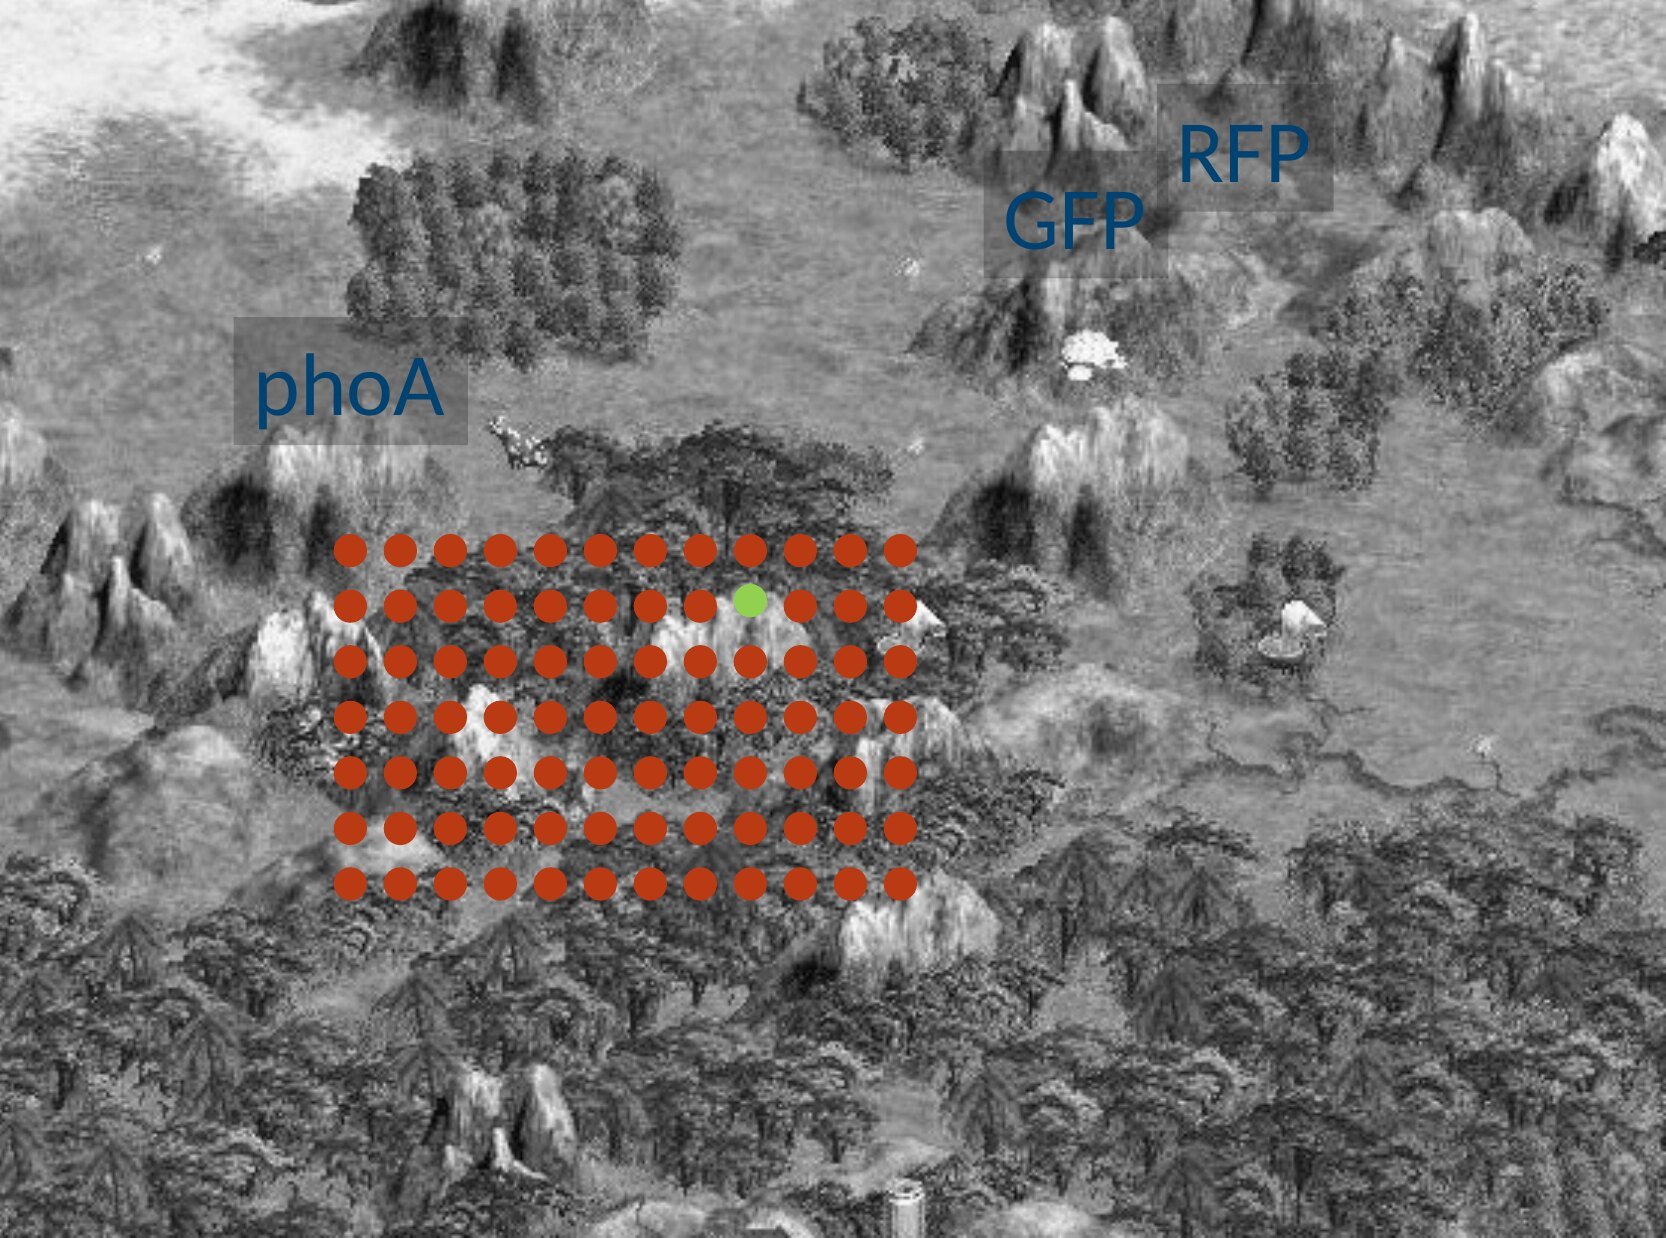
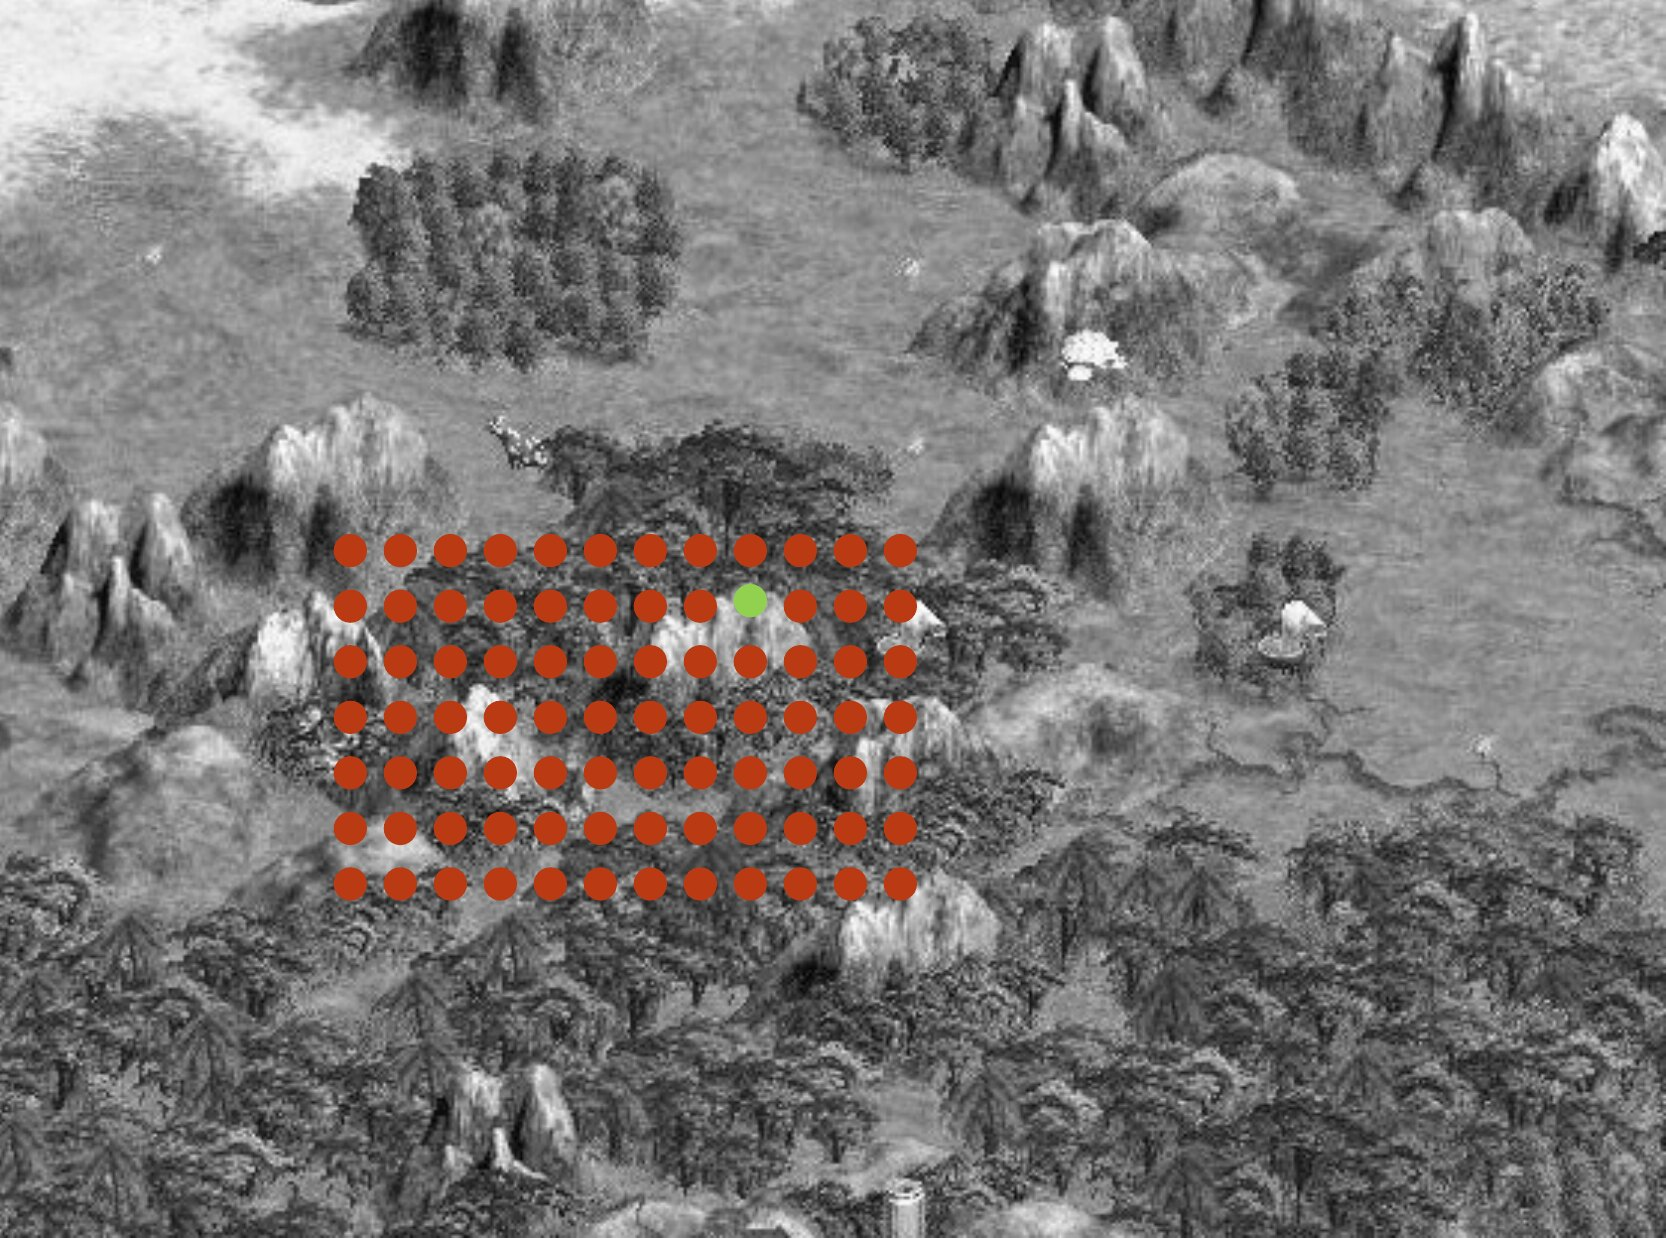
Combinatorial Libraries: sweep the figures, and letter source 3 in HTML
"look for more such issues".  Two sweeps, because the ink pass fails in
two opposite directions and neither one errors.

Too little ink: all 45 figures flattened onto white, measured for the
mid-grey band that clean line art should hardly have, then looked at as
four sheets.  Nothing else was splotchy.

Too much ink, or a shape eaten: rendered a CONTROL tree -- white ground
only, no detint, no inkify -- and diffed it against the build slide by
slide.  No slide lost a shape.  The five where the build has less ink
than the control are the halo going away, and an A/B confirms the build
is strictly more legible.  That diff is the check that would have caught
the source 37 arrow, and PLAN.txt now says to re-run it after any change
to build_white.py.

The sweep did turn up three figures with white type inside a filled
block -- sources 18, 21 and 30 -- which is the one case neither inking
nor a grey panel fixes without redrawing someone else's figure.  Left
alone and written down for JCA.

Source 3's RFP, GFP and phoA are a different matter: they are native
shapes, not part of the raster, and baked into the crop they were a pale
tint of blue over a grey landscape.  Dropped from the render and set as
HTML over the photograph in white, at the shapes' own positions -- the
same treatment every other slide label in this deck already had, and
what the Directed Evolution deck does with this same image.

Changed region(s): [[0.593, 0.0614, 0.8115, 0.2456], [0.1248, 0.2456, 0.2809, 0.3683]]

diff --git a/docs/lectures/140L/11-combinatorial-libraries/00-front-matter.html b/docs/lectures/140L/11-combinatorial-libraries/00-front-matter.html
@@ -9,6 +9,20 @@
 <link rel="stylesheet" href="../../deck.css">
 <style>
 .slide figure.fig img{width:100%;height:100%;min-height:0;object-fit:contain}
+/* source 3: the three peak names are set HERE rather than baked into the
+   crop.  On the slide they are a pale tint of blue over a grey landscape;
+   white is what the Directed Evolution deck uses over this same photograph,
+   and it is the only thing that reads on it.  Percentages are the shapes'
+   own positions in the picture box, from the slide XML. */
+.slide .onphoto{flex:1 1 auto;min-height:0;display:flex;
+  justify-content:center;margin-top:18px}
+/* the labels are placed against the IMAGE, so the positioned box has to be
+   the image's own box and not the figure's -- which is full slide width. */
+.slide .onphoto .ph{position:relative;display:inline-block;height:100%}
+.slide .onphoto .ph img{display:block;height:100%;width:auto;max-width:100%}
+.slide .onphoto .peak{position:absolute;color:#fff;font-size:34px;
+  font-family:var(--sans);text-shadow:0 1px 4px rgba(0,0,0,.85);
+  pointer-events:none}
 /* source 4: two named engineering methods, each with its own bullets */
 .slide .meth{flex:1 1 auto;min-height:0;display:flex;flex-direction:column;
   justify-content:center;gap:38px}
@@ -41,8 +55,13 @@
 <!-- ----------------------------------------------------------------- 3 -->
 <article class="slide">
   <h1>Combinatorial Libraries</h1>
-  <figure class="fig">
-    <img src="img/03-grid.jpg" alt="The same grey fitness landscape, now with a regular grid of about seventy orange dots laid over one region of it, sampling that region evenly rather than climbing from one point. Three peaks elsewhere on the map are labelled RFP, GFP and phoA.">
+  <figure class="fig onphoto">
+    <span class="ph">
+      <img src="img/03-grid.jpg" alt="The same grey fitness landscape, now with a regular grid of about seventy orange dots laid over one region of it, sampling that region evenly rather than climbing from one point.">
+      <span class="peak" style="left:69.4%;top:6.8%">RFP</span>
+      <span class="peak" style="left:59.0%;top:12.1%">GFP</span>
+      <span class="peak" style="left:14.0%;top:25.6%">phoA</span>
+    </span>
   </figure>
   <template class="notes">This is in contrast to combinatorial methods in which often a preexisting activity is not present, and a sparse grid of library members is generated to make a large leap in function or to systematically explore a region of sequence space.</template>
   <template class="desc">The same landscape, sampled instead of climbed: a regular grid of library members dropped across a whole region of sequence space, with other known activities &mdash; RFP, GFP, phoA &mdash; sitting on separate peaks elsewhere on the map.</template>

diff --git a/docs/lectures/140L/11-combinatorial-libraries/build_white.py b/docs/lectures/140L/11-combinatorial-libraries/build_white.py
@@ -17,10 +17,14 @@ from.  Three things happen to a copy of the recoloured tree:
      figures came out visibly splotchy and it only showed at slide size,
      where a 500 px scan is blown up three times.  Thresholding alpha first
      throws the halo away before anything is painted;
-  4. a few text shapes are DROPPED.  Source 30's "Yeast Display:" label sits
-     inside the bounding box of the figure beside it, so any crop that takes
-     the whole figure takes half the label with it -- and that label is set
-     as HTML on the slide, so it would appear twice.  The shape is removed by
+  4. a few text shapes are DROPPED, because they are set as HTML on the slide
+     instead.  Source 30's "Yeast Display:" label sits inside the bounding box
+     of the figure beside it, so any crop that takes the whole figure takes
+     half the label with it, and it would then appear twice.  Source 3's RFP,
+     GFP and phoA labels sit ON the photograph: baked into the crop they are
+     a pale tint of blue over a grey landscape, and re-set as HTML they are
+     white, which is what the Directed Evolution deck does with this same
+     photograph.  The shape is removed by
      cNvPr id before rendering.  Removal is done with ElementTree, never a
      regex: a group holds groups, and a non-greedy <p:grpSp>...</p:grpSp>
      closes on the first INNER tag and swallows the rest of the shape tree.
@@ -41,7 +45,8 @@ KEEP = {"bg1", "bg2", "lt1", "lt2", "dk1", "tx1"}
 # "white marks that ARE data next to black data").
 
 # (slide number, cNvPr id) of shapes to remove before rendering
-DROP = [(30, "13")]
+DROP = [(30, "13"),              # "Yeast Display:" sits inside the figure's box
+        (3, "133"), (3, "134"), (3, "135")]   # RFP / GFP / phoA, re-set as HTML
 INK = [("image18", 35), ("image19", 35), ("image22", 35), ("image23", 35),
        ("image30", 35), ("image31", 35), ("image32", 35),
        ("image34", 35), ("image35", 35), ("image37", 35), ("image39", 35),
